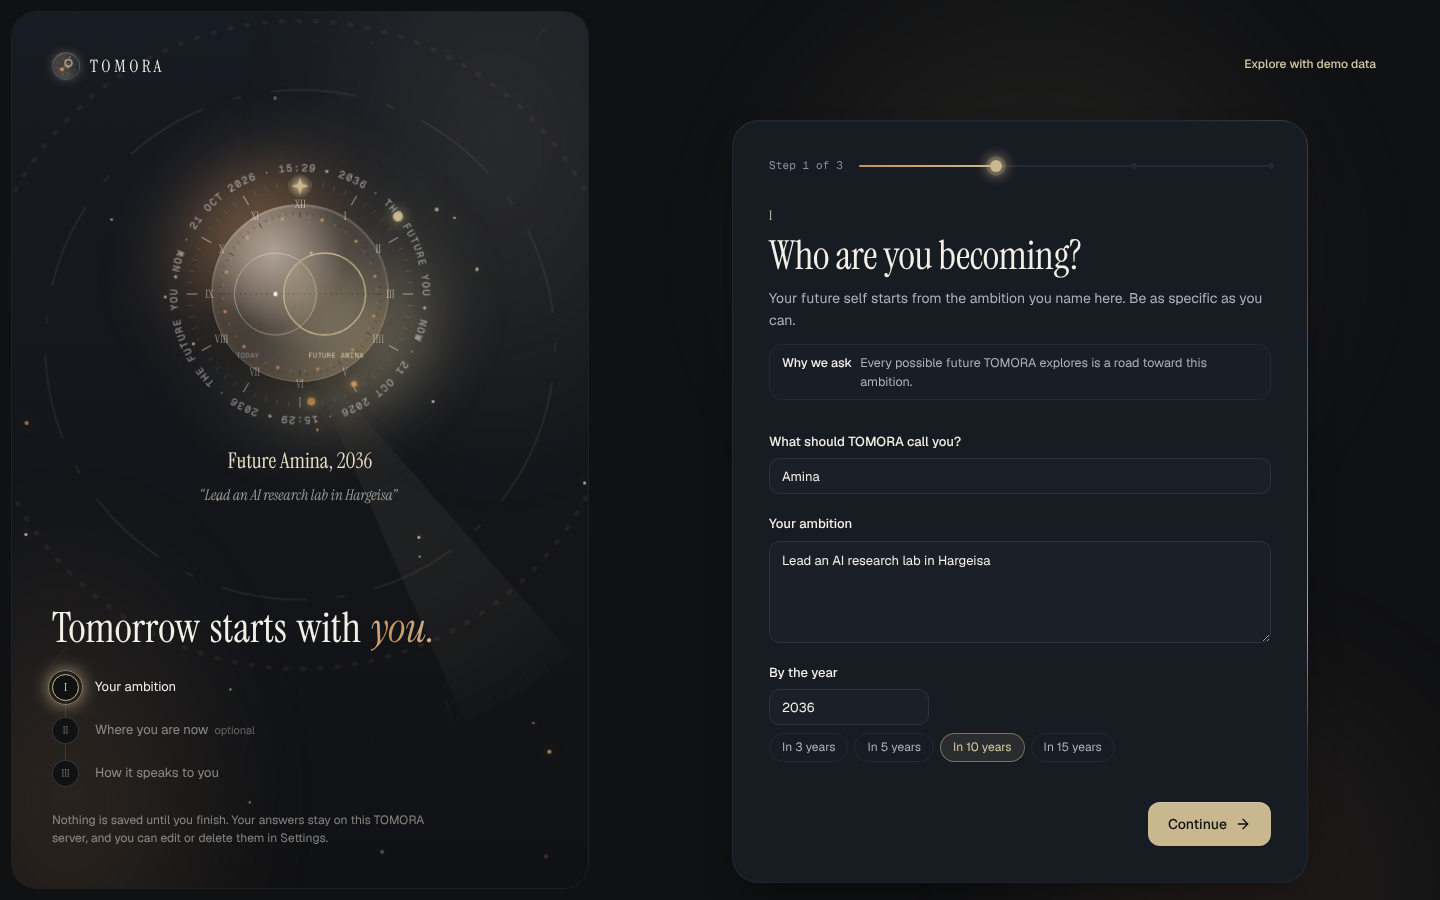
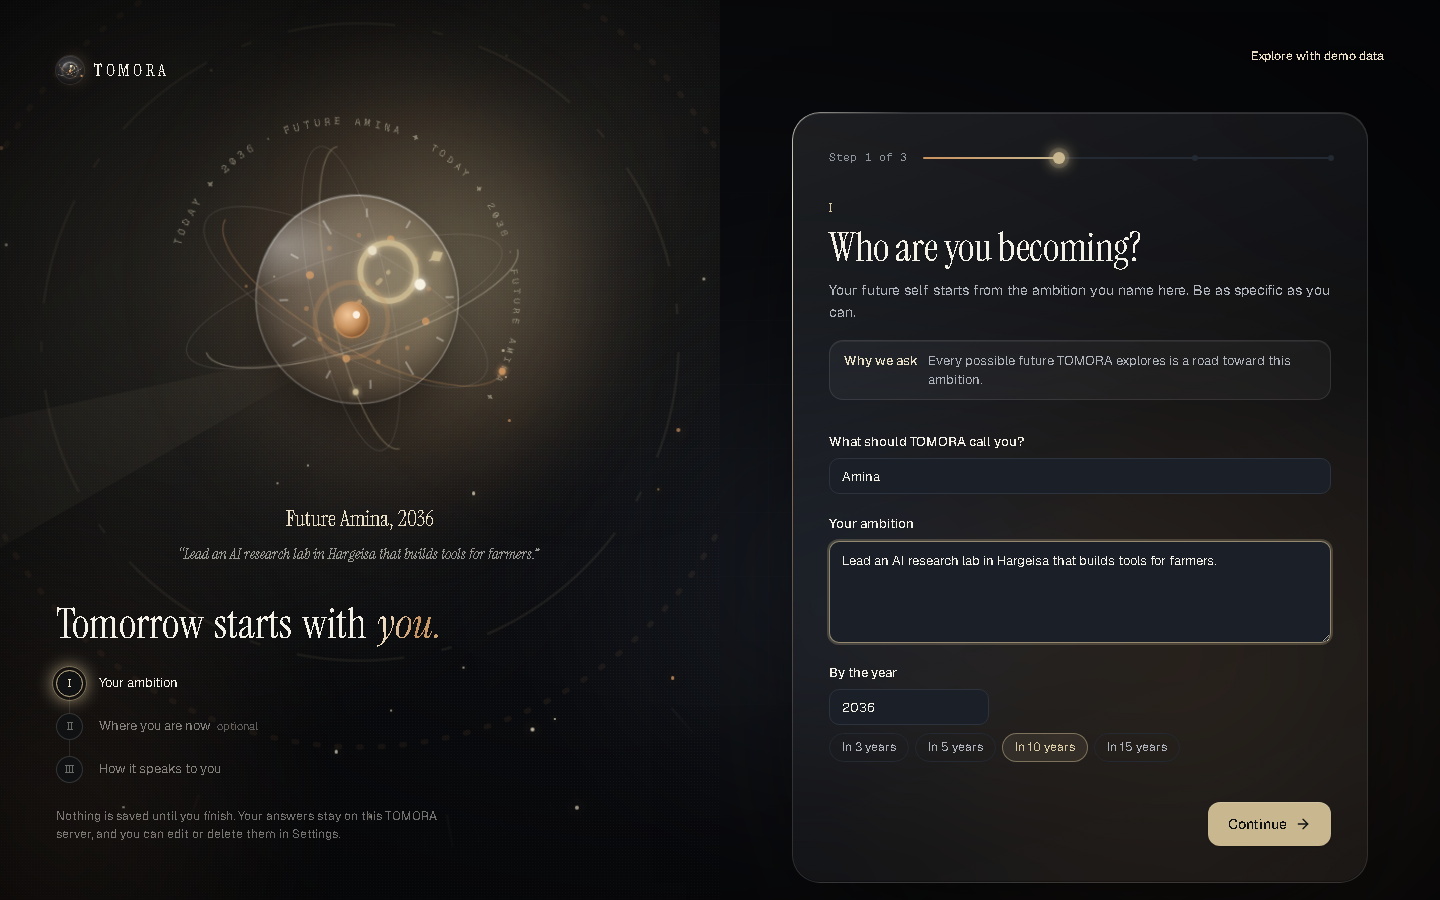
Scheduled calls for every workspace, and a README for the new TOMORA
- twin-scheduler.ts (lib): one pass places due calls, files transcripts and
  purges old data; on a multi-user server it visits every workspace inside its
  own workspace, with that person's ElevenLabs key, phone number and vault. A
  failing workspace doesn't stop the others. The script just loops over it.
- db.ts: a database that fails to open is closed instead of left open.
- tests/twin-scheduler.test.ts: two workspaces, one with a key and a due call;
  only that call is placed, with its own number and callback address.
- README: How it works (with the journey), Share it (multi-user mode, judge
  sign-in, workspace codes, spending limits), the living mark and the new
  onboarding and welcome page, the voice twin per workspace with a step-by-step
  guide to trying it, and You.com search. New screenshots from a production
  build: welcome, onboarding, How it works and sign-in.
- journey.tsx: the roads scene no longer cuts off its last label.

diff --git a/tests/twin-scheduler.test.ts b/tests/twin-scheduler.test.ts
@@ -1,0 +1,108 @@
+import fs from "node:fs";
+import os from "node:os";
+import path from "node:path";
+import { afterEach, beforeEach, describe, expect, it } from "vitest";
+import { openDb, type Db } from "../src/lib/db";
+import { saveProfile } from "../src/lib/futureme";
+import { runInWorkspace, workspaceHandle } from "../src/lib/tenant";
+import { getTwinSetting, setTwinSetting } from "../src/lib/twin";
+import { savePhoneNumberId, scheduleSelfCall } from "../src/lib/twin-calls";
+import { closeSchedulerDbs, tickAll, workspaceIds } from "../src/lib/twin-scheduler";
+import { ElevenLabs } from "../src/lib/voice";
+
+// Scheduled calls on a multi-user server: the scheduler visits every workspace and places each one's due calls with
+// that workspace's own key and phone number, and nobody else's.
+
+const A = "a".repeat(32);
+const B = "b".repeat(32);
+let dir: string;
+const requests: { url: string; body: unknown }[] = [];
+const fakeFetch: typeof fetch = async (input, init) => {
+  const url = String(input);
+  requests.push({ url, body: typeof init?.body === "string" ? JSON.parse(init.body) : null });
+  const body = url.endsWith("/outbound-call") ? { success: true, message: "ok", conversation_id: `conv-${requests.length}`, callSid: "CA1" } : url.includes("/conversations") ? { conversations: [] } : { agent_id: "agent-1" };
+  return new Response(JSON.stringify(body), { status: 200, headers: { "content-type": "application/json" } });
+};
+const api = new ElevenLabs("test-key", fakeFetch, "https://el.test");
+// Only a workspace that "saved a key" gets a client, as getVoiceApi does with a real key.
+const voiceApi = (db: Db) => (getTwinSetting(db, "test_has_key") ? api : null);
+
+async function setUpWorkspace(id: string, { phoneId, withKey, dueCall }: { phoneId: string; withKey: boolean; dueCall: boolean }) {
+  const file = path.join(dir, "workspaces", id, "futureme.db");
+  fs.mkdirSync(path.dirname(file), { recursive: true });
+  const db = openDb(file);
+  await runInWorkspace(id, async () => {
+    saveProfile(db, { name: id === A ? "Amina" : "Yusuf", dream: "A future worth calling about", style: "direct" });
+    db.prepare("INSERT INTO consents (phrase, code, status) VALUES ('p', 'a b c', 'verified')").run();
+    db.prepare("INSERT INTO voice_profiles (voice_id, kind, status, consent_id) VALUES ('ivc-1', 'instant', 'ready', 1)").run();
+    savePhoneNumberId(db, phoneId);
+    setTwinSetting(db, "owner_phone", "+252634000001");
+    setTwinSetting(db, "owner_phone_verified", "+252634000001");
+    if (withKey) setTwinSetting(db, "test_has_key", "1");
+    if (dueCall) {
+      const call = await scheduleSelfCall(db, api, { mode: "future_call", topic: "the lab", at: new Date(Date.now() + 3_600_000).toISOString() });
+      db.prepare("UPDATE calls SET scheduled_for = datetime('now', '-1 minute') WHERE id = ?").run(call.id);
+    }
+  });
+  db.close();
+}
+
+beforeEach(() => {
+  dir = fs.mkdtempSync(path.join(os.tmpdir(), "futureme-sched-"));
+  process.env.DATABASE_PATH = path.join(dir, "futureme.db");
+  process.env.FUTUREME_MULTI_USER = "1";
+  process.env.LLM_PROVIDER = "mock";
+  process.env.TWIN_PUBLIC_URL = "https://tomora.example.org";
+  delete process.env.ELEVENLABS_PHONE_NUMBER_ID;
+  requests.length = 0;
+});
+afterEach(() => {
+  closeSchedulerDbs();
+  for (const k of ["DATABASE_PATH", "FUTUREME_MULTI_USER", "TWIN_PUBLIC_URL"]) delete process.env[k];
+  fs.rmSync(dir, { recursive: true, force: true });
+});
+
+describe("the scheduler on a multi-user server", () => {
+  it("places each workspace's due call with its own phone number and callback address", async () => {
+    await setUpWorkspace(A, { phoneId: "phnum_amina", withKey: true, dueCall: true });
+    await setUpWorkspace(B, { phoneId: "phnum_yusuf", withKey: false, dueCall: true });
+    expect(workspaceIds().sort()).toEqual([A, B]);
+    requests.length = 0;
+
+    const { ticks, errors } = await tickAll(null, voiceApi);
+    expect(errors).toEqual([]);
+    // B has no ElevenLabs key, so only A ran, and placed its one due call.
+    expect(ticks).toEqual([expect.objectContaining({ workspace: A, dialled: 1 })]);
+    const dials = requests.filter((r) => r.url.endsWith("/outbound-call"));
+    expect(dials).toHaveLength(1);
+    expect(dials[0].body).toMatchObject({ agent_phone_number_id: "phnum_amina", to_number: "+252634000001" });
+    const agent = requests.find((r) => r.url.endsWith("/agents/create"))!.body as { conversation_config: { agent: { prompt: { custom_llm: { url: string } } } } };
+    expect(agent.conversation_config.agent.prompt.custom_llm.url).toContain(`/ws/${workspaceHandle(A)}/`);
+
+    // The call is recorded in A's own database (placed, then synced); B's call is still waiting for a key.
+    const status = (id: string) => {
+      const d = openDb(path.join(dir, "workspaces", id, "futureme.db"));
+      try {
+        return (d.prepare("SELECT status FROM calls WHERE mode = 'future_call'").get() as { status: string }).status;
+      } finally {
+        d.close();
+      }
+    };
+    expect(status(A)).not.toBe("scheduled");
+    expect(status(B)).toBe("scheduled");
+
+    // A second pass doesn't dial the same call again.
+    requests.length = 0;
+    await tickAll(null, voiceApi);
+    expect(requests.filter((r) => r.url.endsWith("/outbound-call"))).toHaveLength(0);
+  });
+
+  it("keeps going when one workspace fails", async () => {
+    await setUpWorkspace(A, { phoneId: "phnum_amina", withKey: true, dueCall: false });
+    fs.mkdirSync(path.join(dir, "workspaces", B), { recursive: true });
+    fs.writeFileSync(path.join(dir, "workspaces", B, "futureme.db"), "not a database");
+    const { ticks, errors } = await tickAll(null, voiceApi);
+    expect(ticks.map((t) => t.workspace)).toEqual([A]);
+    expect(errors).toEqual([expect.objectContaining({ workspace: B })]);
+  });
+});

diff --git a/src/lib/twin-scheduler.ts b/src/lib/twin-scheduler.ts
@@ -1,0 +1,80 @@
+import fs from "node:fs";
+import path from "node:path";
+import { openDb, type Db } from "./db";
+import type { AgentMail } from "./mail";
+import { baseDataDir, runInWorkspace } from "./tenant";
+import { dialDueCalls, syncCalls } from "./twin-calls";
+import { purgeExpired } from "./twin-data";
+import { getVoiceApi, type ElevenLabs } from "./voice";
+import { isWorkspaceId, multiUser } from "./workspace-id";
+
+// One pass of the voice twin's scheduler (scripts/twin-scheduler.ts runs it every 30 seconds): places scheduled calls to
+// the user's own phone, files finished call transcripts in the vault, and deletes old third-party transcripts and mail.
+// On a multi-user server it does this for every workspace, each inside its own workspace, so a call is placed with that
+// person's ElevenLabs key and phone number and its transcript lands in their vault.
+
+export interface Tick {
+  workspace: string | null;
+  dialled: number;
+  filed: number;
+  purged: { calls: number; emails: number };
+}
+
+/** One workspace's pass. Null when it has no ElevenLabs key yet. `voiceApi` is swapped in by tests. */
+export async function tickWorkspace(db: Db, mail: AgentMail | null, voiceApi: (db: Db) => ElevenLabs | null = getVoiceApi): Promise<Omit<Tick, "workspace"> | null> {
+  const api = voiceApi(db);
+  if (!api) return null;
+  const dialled = await dialDueCalls(db, api);
+  const filed = await syncCalls(db, api);
+  const purged = await purgeExpired(db, api, mail);
+  return { dialled, filed, purged };
+}
+
+/** The workspaces on this server that have a database. */
+export function workspaceIds(): string[] {
+  const root = path.join(baseDataDir(), "workspaces");
+  try {
+    return fs.readdirSync(root).filter((id) => isWorkspaceId(id) && fs.existsSync(path.join(root, id, "futureme.db")));
+  } catch {
+    return [];
+  }
+}
+
+// The scheduler is a long-running process, so each workspace's database stays open between passes.
+const open = new Map<string, Db>();
+const dbFor = (key: string, file?: string) => {
+  let d = open.get(key);
+  if (!d) {
+    d = openDb(file);
+    open.set(key, d);
+  }
+  return d;
+};
+
+/** One pass over the default workspace, or over every workspace in multi-user mode. A failing workspace doesn't stop the rest. */
+export async function tickAll(mail: AgentMail | null, voiceApi?: (db: Db) => ElevenLabs | null): Promise<{ ticks: Tick[]; errors: { workspace: string | null; error: string }[] }> {
+  const ticks: Tick[] = [];
+  const errors: { workspace: string | null; error: string }[] = [];
+  const run = async (workspace: string | null, db: () => Db) => {
+    try {
+      const t = await tickWorkspace(db(), mail, voiceApi);
+      if (t) ticks.push({ workspace, ...t });
+    } catch (err) {
+      errors.push({ workspace, error: err instanceof Error ? err.message : String(err) });
+    }
+  };
+  if (!multiUser()) {
+    await run(null, () => dbFor(""));
+    return { ticks, errors };
+  }
+  for (const id of workspaceIds()) {
+    await runInWorkspace(id, () => run(id, () => dbFor(id, path.join(baseDataDir(), "workspaces", id, "futureme.db"))));
+  }
+  return { ticks, errors };
+}
+
+/** For tests: close the databases the scheduler keeps open. */
+export function closeSchedulerDbs() {
+  for (const d of open.values()) d.close();
+  open.clear();
+}

diff --git a/scripts/twin-scheduler.ts b/scripts/twin-scheduler.ts
@@ -2,31 +2,29 @@
 // files finished call transcripts in the vault, and deletes third-party transcripts and mail after the retention period.
 //   npm run twin-scheduler            run once now
 //   npm run twin-scheduler -- --loop  every 30 seconds; the container does this unless TWIN_SCHEDULER=off
-// The ElevenLabs key is read on every run, so a key added in the app is picked up without a restart.
-import { openDb } from "../src/lib/db";
+// The ElevenLabs key is read on every run, so a key added in the app is picked up without a restart. On a multi-user
+// server (FUTUREME_MULTI_USER=1) every workspace gets its pass, with its own key and phone number (src/lib/twin-scheduler.ts).
 import { getMailApi } from "../src/lib/mail";
-import { dialDueCalls, syncCalls } from "../src/lib/twin-calls";
-import { purgeExpired } from "../src/lib/twin-data";
-import { getVoiceApi } from "../src/lib/voice";
+import { tickAll } from "../src/lib/twin-scheduler";
 
 const INTERVAL_MS = 30_000;
-const db = openDb();
 const mail = getMailApi();
-let skipped = false;
+let waiting = false;
 
 async function once() {
-  const api = getVoiceApi(db);
-  if (!api) {
-    if (!skipped) console.log("Twin scheduler waiting: there's no ElevenLabs key yet.");
-    skipped = true;
+  const { ticks, errors } = await tickAll(mail);
+  if (!ticks.length && !errors.length) {
+    if (!waiting) console.log("Twin scheduler waiting: there's no ElevenLabs key yet.");
+    waiting = true;
     return;
   }
-  skipped = false;
-  const dialled = await dialDueCalls(db, api);
-  const filed = await syncCalls(db, api);
-  const purged = await purgeExpired(db, api, mail);
-  if (dialled || filed) console.log(`Twin scheduler: ${dialled} call(s) placed, ${filed} transcript(s) filed.`);
-  if (purged.calls || purged.emails) console.log(`Twin scheduler: deleted ${purged.calls} old call transcript(s) and ${purged.emails} old email(s).`);
+  waiting = false;
+  for (const t of ticks) {
+    const who = t.workspace ? ` [${t.workspace.slice(0, 6)}…]` : "";
+    if (t.dialled || t.filed) console.log(`Twin scheduler${who}: ${t.dialled} call(s) placed, ${t.filed} transcript(s) filed.`);
+    if (t.purged.calls || t.purged.emails) console.log(`Twin scheduler${who}: deleted ${t.purged.calls} old call transcript(s) and ${t.purged.emails} old email(s).`);
+  }
+  for (const e of errors) console.error(`Twin scheduler error${e.workspace ? ` [${e.workspace.slice(0, 6)}…]` : ""}:`, e.error);
 }
 
 async function main() {

diff --git a/src/features/landing/journey.tsx b/src/features/landing/journey.tsx
@@ -150,9 +150,9 @@ function UnderstandScene() {
 
 function FuturesScene() {
   const roads = [
-    { d: "M30 120 C 120 120, 150 40, 300 40", label: "A · Self-study", y: 40 },
-    { d: "M30 120 C 120 120, 170 120, 300 120", label: "B · Work and study", y: 120 },
-    { d: "M30 120 C 120 120, 150 200, 300 200", label: "C · Formal education", y: 200 },
+    { d: "M30 120 C 110 120, 140 40, 260 40", label: "A · Self-study", y: 40 },
+    { d: "M30 120 C 110 120, 160 120, 260 120", label: "B · Work and study", y: 120 },
+    { d: "M30 120 C 110 120, 140 200, 260 200", label: "C · Formal education", y: 200 },
   ];
   return (
     <svg viewBox="0 0 420 240" className="w-full" role="img" aria-label="Three different roads branching from today">
@@ -164,9 +164,9 @@ function FuturesScene() {
       {roads.map((r, i) => (
         <g key={r.label}>
           <motion.path d={r.d} stroke="#C8B78F" strokeOpacity="0.85" strokeWidth="2" fill="none" initial={{ pathLength: 0 }} animate={{ pathLength: 1 }} transition={{ delay: 0.15 + i * 0.3, duration: 1, ease: EASE }} />
-          <motion.g initial={{ opacity: 0, scale: 0.6 }} animate={{ opacity: 1, scale: 1 }} transition={{ delay: 0.9 + i * 0.3, duration: 0.4 }} style={{ transformOrigin: `300px ${r.y}px` }}>
-            <circle cx="300" cy={r.y} r="9" fill="#0B0C10" stroke="#C8B78F" strokeWidth="1.5" />
-            <text x="318" y={r.y + 4} className="fill-[#F3F0E8]/85 text-[11.5px]">
+          <motion.g initial={{ opacity: 0, scale: 0.6 }} animate={{ opacity: 1, scale: 1 }} transition={{ delay: 0.9 + i * 0.3, duration: 0.4 }} style={{ transformOrigin: `260px ${r.y}px` }}>
+            <circle cx="260" cy={r.y} r="9" fill="#0B0C10" stroke="#C8B78F" strokeWidth="1.5" />
+            <text x="276" y={r.y + 4} className="fill-[#F3F0E8]/85 text-[11.5px]">
               {r.label}
             </text>
           </motion.g>

diff --git a/src/lib/db.ts b/src/lib/db.ts
@@ -180,17 +180,23 @@ export function setSetting(db: Database.Database, key: string, value: string | n
 export function openDb(file = process.env.DATABASE_PATH ?? path.join(process.cwd(), "data", "futureme.db")) {
   if (file !== ":memory:") fs.mkdirSync(path.dirname(file), { recursive: true });
   const db = new Database(file);
-  db.pragma("journal_mode = WAL");
-  db.pragma("foreign_keys = ON");
-  db.pragma("busy_timeout = 5000");
-  db.exec(SCHEMA);
-  db.exec(TWIN_SCHEMA);
-  db.exec(MEMORY_SCHEMA);
-  db.exec(SOCIAL_SCHEMA);
-  db.exec(DECISION_SCHEMA);
-  db.exec(CALENDAR_SCHEMA);
-  migrate(db);
-  migrateTwin(db);
+  try {
+    db.pragma("journal_mode = WAL");
+    db.pragma("foreign_keys = ON");
+    db.pragma("busy_timeout = 5000");
+    db.exec(SCHEMA);
+    db.exec(TWIN_SCHEMA);
+    db.exec(MEMORY_SCHEMA);
+    db.exec(SOCIAL_SCHEMA);
+    db.exec(DECISION_SCHEMA);
+    db.exec(CALENDAR_SCHEMA);
+    migrate(db);
+    migrateTwin(db);
+  } catch (err) {
+    // A broken file: don't leave it open behind the error.
+    db.close();
+    throw err;
+  }
   return db;
 }
 

diff --git a/docs/deploy.md b/docs/deploy.md
@@ -46,7 +46,7 @@ FUTUREME_MULTI_USER=1          # a private workspace per visitor (server.ts runs
 FUTUREME_ACCESS_CODE=your-code # the code visitors enter
 FUTUREME_SHOW_CODE=1           # optional: show the code on the sign-in page with a one-click button
 SEED_DEMO=0                    # new visitors start at onboarding, not on demo data
-NIGHT_SHIFT_AT=off             # the night shift and twin schedulers only serve the default workspace
+NIGHT_SHIFT_AT=off             # the night shift only serves the default workspace (the twin scheduler serves every one)
 YDC_API_KEY=...                # web research: You.com (or BRAVE_SEARCH_API_KEY). DuckDuckGo blocks most cloud servers.
 ```
 
